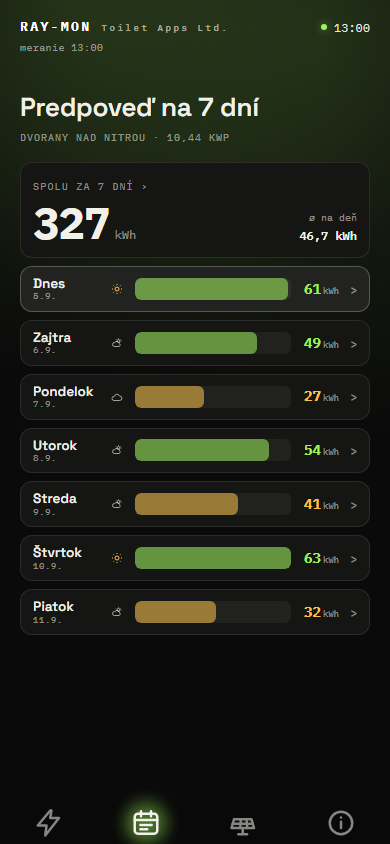
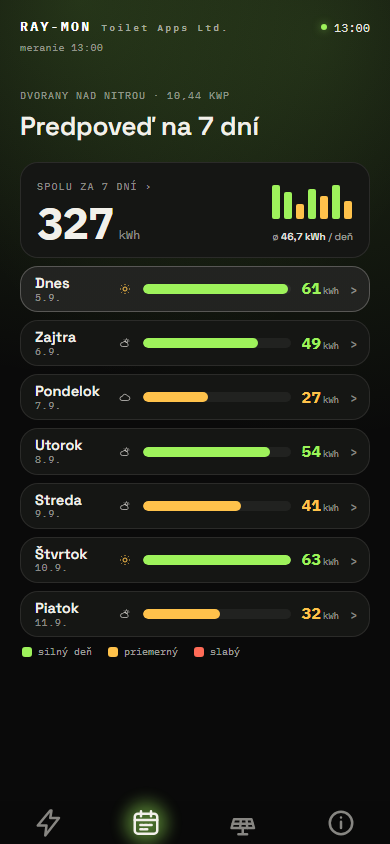
feat: prehľad 7 dní podľa návrhu H1 (#203)
Prvý krok prerobenia kariet podľa návrhu **H1 · Ciferník** (karta
Terazky ostáva bez zmeny). Ďalej pôjdu detail dňa, Nastavenie so
zlúčenou kartou Info a zmazanie karty Info z HTML.

## Zmeny (len mobil do 767 px, desktop bez zmeny)

- **Hlavička:** riadok „DVORANY NAD NITROU · 10,44 KWP“ ide nad nadpis.
- **Bublina so súčtom:** vpravo stĺpčeky siedmich dní (výška a farba ako
pásik v riadku dňa), pod nimi priemer „ø 46,7 kWh / deň“.
- **Riadky dní:** tenší pásik v plnej farbe, väčšie meno a číslo, väčšie
zaoblenie.
- **Legenda** farieb pod rebríčkom: silný deň / priemerný / slabý (tá
istá mierka ako heatmapa, `weekDayTiers`).

## Nasadenie

Stačí jedno. Stĺpčeky si robí render sám (rovnaký vzor ako bodky pod
detailom dňa, `weekSparkPas`), legenda je statické HTML bez referencie v
`dom.js`.

## Výška prehľadu

Prehľad má ostať na jednu obrazovku. Nová verzia je o 24 px vyššia;
odmerané v Chromiu na 390 aj 320 px (pôvodne o 67 px, preto som ju
zhustil). `WEEK_MSG_MIN_H` je preto **860 → 885**, čísla v
`shared/config.js` aj `docs/ARCHITECTURE.md` sú aktualizované.

## Overenie

- `npm run check`: 143 jednotkových testov prešlo, pokrytie 99,7 %.
- `npm run test:e2e`: všetkých 92 testov prešlo.
- `npm run screenshots`: zmenila sa len `docs/img/7dni.png`. Terazky a
Info sú bajtovo rovnaké.

🤖 Generated with [Claude Code](https://claude.com/claude-code)

diff --git a/style.css b/style.css
@@ -1930,6 +1930,18 @@ b {
 }
 
 /* ---- 7 dní: rebríček dní (prehľad na mobile) -------------------------------- */
+/* Na mobile ide riadok s elektrárňou nad nadpis - hovorí, o čom predpoveď je, skôr než čo
+   to je. Len poradie zobrazenia; na širokej obrazovke ostáva hlavička, ako bola. */
+@media (max-width: 767px) {
+    #week-head {
+        display: flex;
+        flex-direction: column-reverse;
+        gap: var(--sp-1);
+    }
+    #week-head .section-sub {
+        margin-top: 0;
+    }
+}
 /* Osem kariet pod sebou: bublina so súčtom za týždeň a pod ňou sedem dní, každý vo vlastnom
    ráme. Súčet a deň tak vyzerajú ako to, čím sú - dve rovnocenné tlačidlá, jedno do detailu
    týždňa, druhé do detailu dňa - a dni sa od seba jasne oddelia. Dĺžka pásika je výroba dňa
@@ -1950,16 +1962,44 @@ b {
 }
 /* Rám, výplň a zaoblenie sú tie isté, aké má bublina .stat - je to ten istý útvar, len na
    inej karte. Poradie pravidiel rozhoduje: reset tlačidla vyššie musí ostať pred týmto. */
+/* Súčet vľavo; vpravo týždeň v malom (stĺpčeky robí render, viď weekSparkPas vo
+   web/render/sedemdni.js) a pod ním priemer. Pravý stĺpec nie je vyšší než súčet, takže
+   bublina nerastie - prehľad dní sa má zmestiť na jednu obrazovku (viď WEEK_MSG_MIN_H). */
 .week-list-hero {
-    display: flex;
-    align-items: flex-end;
-    justify-content: space-between;
-    gap: var(--sp-3);
+    display: grid;
+    grid-template-columns: minmax(0, 1fr) auto;
+    grid-template-areas:
+        'sum spark'
+        'sum avg';
+    align-items: end;
+    column-gap: var(--sp-3);
+    row-gap: 2px;
     margin-bottom: var(--sp-2);
-    padding: var(--sp-3);
+    padding: var(--sp-3) var(--sp-4);
     background: var(--card-bg);
     border: 1px solid var(--ink-08);
-    border-radius: var(--radius-md);
+    border-radius: var(--radius-lg);
+}
+.week-list-spark {
+    grid-area: spark;
+    display: flex;
+    align-items: flex-end;
+    gap: 4px;
+    height: 34px;
+}
+.week-list-spark i {
+    width: 8px;
+    border-radius: 2px;
+    background: var(--ink-20);
+}
+.week-list-spark i.tier-green {
+    background: var(--green);
+}
+.week-list-spark i.tier-amber {
+    background: var(--amber);
+}
+.week-list-spark i.tier-red {
+    background: var(--red);
 }
 /* Šípka "›" hovorí, že bublina otvára detail týždňa. Nepotrebuje @media ako tá istá šípka
    pri bublinách vyššie - celý blok je na obrazovke len tam, kde detail existuje. */
@@ -1968,6 +2008,7 @@ b {
     color: var(--ink-35);
 }
 .week-list-sum {
+    grid-area: sum;
     display: block;
     min-width: 0;
 }
@@ -1985,35 +2026,63 @@ b {
     margin-left: 3px;
 }
 .week-list-avg {
-    font-family: var(--font-mono);
+    grid-area: avg;
     font-size: var(--fs-xs);
-    color: var(--ink-35);
+    color: var(--ink-45);
     text-align: right;
-    line-height: 1.6;
     white-space: nowrap;
 }
 .week-list-avg b {
-    display: block;
-    font-size: var(--fs-sm);
+    font-weight: 600;
+    color: var(--ink-70);
+}
+/* Legenda farieb pod rebríčkom - tie isté tri farby ako pásik a číslo v riadku dňa. */
+.week-legend {
+    display: flex;
+    flex-wrap: wrap;
+    gap: var(--sp-1) var(--sp-4);
+    padding: var(--sp-2) 2px 0;
+    font-family: var(--font-mono);
+    font-size: var(--fs-xs);
+    color: var(--ink-45);
+}
+.week-legend span {
+    display: flex;
+    align-items: center;
+    gap: 6px;
+}
+.week-legend i {
+    width: 10px;
+    height: 10px;
+    border-radius: 3px;
+}
+.week-legend i.tier-green {
+    background: var(--green);
+}
+.week-legend i.tier-amber {
+    background: var(--amber);
+}
+.week-legend i.tier-red {
+    background: var(--red);
 }
 .week-list {
     display: flex;
     flex-direction: column;
     gap: var(--sp-2);
 }
-/* Meno dňa má pevný stĺpec, aby pásiky začínali pod sebou a dali sa porovnať; 70 px je
-   šírka najdlhšieho názvu ("Pondelok") pri tomto písme. Ikona oblohy je 12 px (.cloud-cell
+/* Meno dňa má pevný stĺpec, aby pásiky začínali pod sebou a dali sa porovnať; 76 px je
+   šírka najdlhšieho názvu ("Pondelok") pri 14,5 px. Ikona oblohy je 12 px (.cloud-cell
    nižšie), stĺpec má o niečo viac, nech sa nedotýka mena. Piaty stĺpec je šípka nižšie.
    Pásik je jediný pružný stĺpec (1fr), ostatné majú pevnú šírku - preto sa riadok zmestí
    aj na 280 px a nepretečie do strán (drží to e2e test). */
 .wday {
     display: grid;
-    grid-template-columns: 70px 16px 1fr auto 10px;
+    grid-template-columns: 76px 16px 1fr auto 10px;
     align-items: center;
     gap: var(--sp-2);
-    padding: 9px var(--sp-3);
+    padding: 8px var(--sp-3) 8px 14px;
     border: 1px solid var(--ink-08);
-    border-radius: var(--radius-md);
+    border-radius: var(--radius-lg);
     background: var(--card-bg);
 }
 /* Šípka pri každom dni hovorí, že riadok je tlačidlo - predtým to bola veta pod zoznamom.
@@ -2034,7 +2103,7 @@ b {
 /* Dnešok sa nezvýrazňuje: v rebríčku stojí vždy prvý a volá sa "Dnes", takže by farba
    hovorila to, čo už povedalo poradie aj meno. */
 .wday-name {
-    font-size: 13.5px;
+    font-size: 14.5px;
     font-weight: 600;
     line-height: 1.15;
     min-width: 0;
@@ -2042,37 +2111,38 @@ b {
 .wday-date {
     display: block;
     font-family: var(--font-mono);
-    font-size: 9px;
+    font-size: var(--fs-xs);
     font-weight: 400;
     letter-spacing: 0.06em;
     color: var(--ink-35);
 }
 .wday-bar {
-    height: 22px;
-    border-radius: var(--radius-sm);
+    height: 10px;
+    border-radius: var(--radius-pill);
     background: var(--ink-05);
     overflow: hidden;
 }
 .wday-bar i {
     display: block;
     height: 100%;
-    border-radius: var(--radius-sm);
+    border-radius: var(--radius-pill);
     background: color-mix(in srgb, var(--green) 45%, transparent);
 }
 /* Pásmo dňa - tá istá mierka ako v heatmape. Sýtosť sa z heatmapy nepreberá: tam je
-   jediným nosičom veľkosti, tu je ňou dĺžka pásika a slabý deň by bol krátky aj vyblednutý. */
+   jediným nosičom veľkosti, tu je ňou dĺžka pásika a slabý deň by bol krátky aj vyblednutý.
+   Pásik je tenký (10 px), preto plná farba - priesvitná by na ňom zanikla. */
 .wday-bar i.tier-red {
-    background: color-mix(in srgb, var(--red) 55%, transparent);
+    background: var(--red);
 }
 .wday-bar i.tier-amber {
-    background: color-mix(in srgb, var(--amber) 55%, transparent);
+    background: var(--amber);
 }
 .wday-bar i.tier-green {
-    background: color-mix(in srgb, var(--green) 55%, transparent);
+    background: var(--green);
 }
 .wday-kwh {
     font-family: var(--font-mono);
-    font-size: var(--fs-md);
+    font-size: 16px;
     font-weight: 700;
     min-width: 40px;
     text-align: right;

diff --git a/web/render/sedemdni.js b/web/render/sedemdni.js
@@ -154,6 +154,26 @@ function renderTableAndTabs(days, sel, dom) {
 }
 
 /**
+ * Stĺpčeky dní v bubline so súčtom za týždeň. Robí si ich render, nie index.html - z toho
+ * istého dôvodu ako bodky pod hlavičkou detailu (viď dayDots nižšie): HTML a JS tak na sebe
+ * nezávisia a zmena ide von jedným nasadením. Sú len ozdoba súčtu, čítačka ich preskočí -
+ * tie isté čísla povie riadok každého dňa.
+ * @type {HTMLElement | null}
+ */
+let weekSpark = null;
+
+/** @param {import('../dom.js').Dom} dom */
+function weekSparkPas(dom) {
+    if (!weekSpark) {
+        weekSpark = document.createElement('span');
+        weekSpark.className = 'week-list-spark';
+        weekSpark.setAttribute('aria-hidden', 'true');
+        (dom.weekListTotal.closest('.week-list-hero') || dom.weekBlockList).append(weekSpark);
+    }
+    return weekSpark;
+}
+
+/**
  * Rebríček dní - prehľad karty na mobile. Hore bublina so súčtom za týždeň (je to tlačidlo
  * a otvára detail týždňa), pod ňou karta s riadkom na deň: meno s dátumom, obloha, pásik
  * a výroba. Riadok je tlačidlo, otvára detail toho dňa.
@@ -166,6 +186,12 @@ function renderTableAndTabs(days, sel, dom) {
 function renderList(s, rows, dom) {
     dom.weekListTotal.textContent = String(Math.round(s.totalKwh));
     dom.weekListAvg.textContent = `${fmt1(s.avgKwh)} kWh`;
+    // Týždeň v malom: stĺpček na deň, tá istá výška a farba ako pásik v riadku dňa.
+    writeHtml(
+        weekSparkPas(dom),
+        rows.map((r) => `<i class="${r.tier ? `tier-${r.tier}` : ''}" style="height:${Math.max(r.barPct, 4)}%"></i>`).join(''),
+        'weekSpark',
+    );
     const html = rows
         .map((r) => {
             // Pásmo dňa nesie pásik aj číslo vedľa neho - tá istá farba a tá istá mierka
@@ -353,6 +379,7 @@ function renderEmpty(dom) {
         [dom.weekDayTabs, 'weekDayTabs'],
         [dom.weekTbody, 'weekTbody'],
         [dom.weekList, 'weekList'],
+        [weekSparkPas(dom), 'weekSpark'],
     ]))
         writeHtml(el, '', name);
     for (const el of [dom.weekBarsStat, dom.weekCurveStat, dom.weekHeatScale]) el.innerHTML = '';

diff --git a/index.html b/index.html
@@ -321,9 +321,16 @@
                                 <span class="lbl">Spolu za 7 dní</span>
                                 <span class="stat-num-row"><span class="num" id="week-list-total">–</span><span class="u">kWh</span></span>
                             </span>
-                            <span class="week-list-avg">ø na deň<b id="week-list-avg">–</b></span>
+                            <span class="week-list-avg">ø <b id="week-list-avg">–</b> / deň</span>
                         </button>
                         <div class="week-list" id="week-list"></div>
+                        <!-- Legenda farieb dňa: tá istá mierka ako v heatmape (weekDayTiers v
+                             shared/chart-model.js) - tretiny najsilnejšieho dňa týždňa. -->
+                        <div class="week-legend">
+                            <span><i class="tier-green"></i>silný deň</span>
+                            <span><i class="tier-amber"></i>priemerný</span>
+                            <span><i class="tier-red"></i>slabý</span>
+                        </div>
                     </section>
                     <div class="msg-block" id="week-msg-block">
                         <h3 id="week-msg-title">Načítavam…</h3>

diff --git a/shared/config.js b/shared/config.js
@@ -387,14 +387,15 @@ export const TIMEOUT = {
 };
 
 // Od akej viditeľnej výšky okna (px) sa v prehľade dní na karte 7 dní ukáže aj správa
-// týždňa. Prehľad sám sa zmestí od 710 px; so správou potrebuje 835 px, a pri najdlhšej
-// možnej správe na úzkom displeji (320 px) 854 px - namerané v Chromiu pri predvolenej
-// veľkosti písma. 860 je tých 854 a malá rezerva.
+// týždňa. Prehľad sám sa zmestí od 735 px; so správou potrebuje 860 px, a pri najdlhšej
+// možnej správe na úzkom displeji (320 px) 878 px - namerané v Chromiu pri predvolenej
+// veľkosti písma. 885 je tých 878 a malá rezerva. (Pred legendou farieb a väčším písmom
+// dní to bolo o 24 px menej.)
 //
 // Rozhoduje skutočná viditeľná výška (visualViewport), nie rozlíšenie displeja: v mobilnom
 // prehliadači ukrojí adresný riadok 60-90 px, a práve o tie tu ide. Keď sa správa nezmestí,
 // jednoducho nie je - prehľad má ostať na jednu obrazovku bez scrollovania.
-export const WEEK_MSG_MIN_H = 860;
+export const WEEK_MSG_MIN_H = 885;
 
 // Ako dlho ostáva tooltip po ťuknutí zobrazený (ms).
 export const TOOLTIP_HOLD_MS = 1600;

diff --git a/docs/ARCHITECTURE.md b/docs/ARCHITECTURE.md
@@ -202,8 +202,8 @@ za deň, aby odkaz ostal rozumne krátky.
 Na telefóne mala karta štyri grafy a tabuľku pod sebou – pätnásť obrazoviek scrollovania,
 kým sa človek dostal k tomu, čo ho zaujímalo. Je preto rozdelená na dve obrazovky:
 
-- **Prehľad dní** – rebríček: bublina so súčtom za týždeň a pod ňou sedem riadkov
-  s pásikmi. Zmestí sa celý na jednu obrazovku.
+- **Prehľad dní** – rebríček: bublina so súčtom za týždeň (so stĺpčekmi dní v malom) a pod
+  ňou sedem riadkov s pásikmi a legenda ich farieb. Zmestí sa celý na jednu obrazovku.
 - **Detail dňa** – otvorí ho klik na riadok rebríčka: priebeh výroby toho dňa, čísla o ňom,
   jeho jediný riadok z heatmapy a správa o tom dni.
 - **Detail týždňa** – otvorí ho klik na bublinu „Spolu za 7 dní“: denná výroba, heatmapa
@@ -215,9 +215,9 @@ hlavička nad ním, a inak by sa „zajtra“ ukázalo aj pri štvrtku.
 
 V **prehľade dní** je tá istá správa (`weekMessage`) navyše, a len vtedy, keď na ňu ostalo
 miesto: prehľad má byť jedna obrazovka bez scrollovania, takže správa je bonus, nie obsah.
-Rozhoduje pole `tall` v stave – viditeľná výška okna oproti `WEEK_MSG_MIN_H` (860 px).
-Namerané v Chromiu pri predvolenom písme: samotný prehľad sa zmestí od 710 px, so správou
-potrebuje 835 px a pri najdlhšej možnej správe na 320 px širokom displeji 854 px.
+Rozhoduje pole `tall` v stave – viditeľná výška okna oproti `WEEK_MSG_MIN_H` (885 px).
+Namerané v Chromiu pri predvolenom písme: samotný prehľad sa zmestí od 735 px, so správou
+potrebuje 860 px a pri najdlhšej možnej správe na 320 px širokom displeji 878 px.
 
 Výšku dáva `visualViewport`, nie `innerHeight` ani `@media (min-height: …)`: v mobilnom
 prehliadači ukrojí adresný riadok 60 – 90 px, ktoré tie dve o sebe nevedia, a správa by sa

diff --git a/README.md b/README.md
@@ -32,7 +32,8 @@ a položka Zdieľať appku na karte Info ostáva zavretá – QR kód v nej kres
   naň si pozrieš, ako to bude vyzerať v inom čase. Čo prstence a farby znamenajú, vysvetľuje
   karta Info.
 - **7 dní** – prehľad dní: na telefóne rebríček, kde má každý deň pásik dlhý podľa výroby
-  voči najsilnejšiemu dňu v týždni, a nad ním jediné veľké číslo za celý týždeň; na širokej
+  voči najsilnejšiemu dňu v týždni, a nad ním jediné veľké číslo za celý týždeň so stĺpčekmi
+  dní v malom; pod rebríčkom legenda farieb (silný, priemerný, slabý deň); na širokej
   obrazovke bubliny (Dnes, Zajtra, 7 dní spolu) a tabuľka so všetkými stĺpcami. Klik otvorí
   detail: na deň jeho priebeh výroby s oblačnosťou, čísla dňa (špička, využitie, oblačnosť),
   jeho riadok z mapy výroby a hlášku o tom dni; pri dnešku je v grafe aj skutočná nameraná
